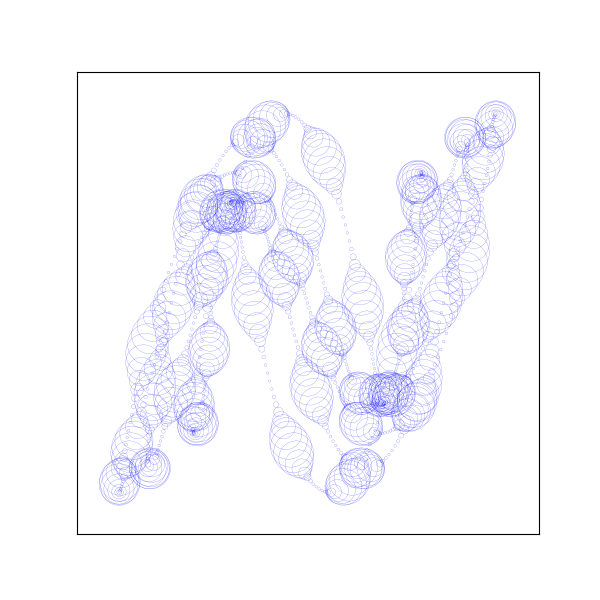
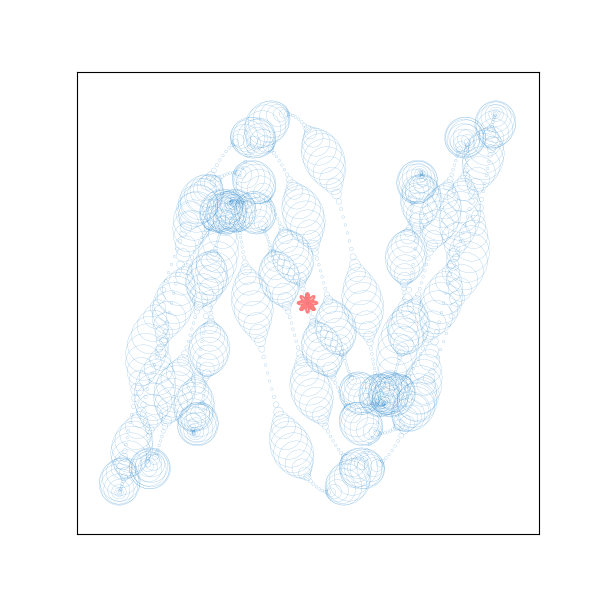
weird pic

diff --git a/math_art.py b/math_art.py
@@ -11,16 +11,16 @@ for value in range(1, 1000):
     
     # Coordinates for the circle centers
     common_factor = 1 - (1/2) * (np.cos((6*np.pi*value)/1000))**2
-    x = np.cos((5*np.pi*value)/1000) * common_factor
-    y = np.sin((16*np.pi*value)/1000) * common_factor
+    x = np.cos((5*np.pi*value)/1000) * np.cos(np.pi * 3) * common_factor
+    y = np.sin((10/np.pi*value)/1000) * common_factor
 
-    circle = patches.Circle((x, y), radius=r, fill=False, edgecolor='blue', linewidth=0.1)
+    circle = patches.Circle((x, y), radius=r, fill=False, color=(0.1, 0.5, 0.8), linewidth=0.1)
     ax.add_patch(circle)
 
 # Part 2: Draw the polar-style curve
-k = 0.5  # Define missing constant
+k = 0.05
 theta = np.linspace(0, 3 * np.pi, 500)
-r_polar = k * np.cos(2 - theta)
+r_polar = k * np.cos(4*theta)
 
 # Convert polar to Cartesian for the same axes
 x_polar = r_polar * np.cos(theta)
@@ -33,5 +33,5 @@ ax.set_xticks([])
 ax.set_aspect('equal', adjustable='box')
 ax.set_xlim(-1.2, 1.2)
 ax.set_ylim(-1.2, 1.2)
-plt.savefig("cool_circles.png")
+#plt.savefig("cool_circles.png")
 plt.show()
